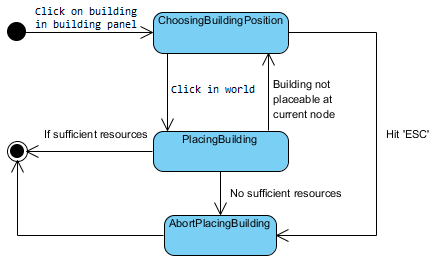
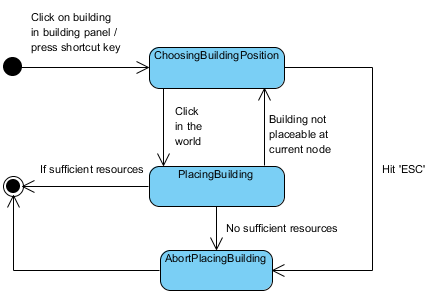
Updated text shortcut keys

Changed region(s): [[0.0, 0.03, 0.9885, 0.9588]]

diff --git a/docs/software_architecture/chapters/adding-buildings.tex b/docs/software_architecture/chapters/adding-buildings.tex
@@ -3,12 +3,12 @@
 As a player you may want to add buildings to the world. In this section we will explain how a player can add buildings and how we have implemented this feature.
 
 \subsection{Controls and feedback}
-Buildings can be spawned via the building panel (see \cref{fig:building-panel}). When the player clicks on the building that he/she wishes to spawn, a slightly transparent texture of the building appears at the mouse position. When the player hovers the mouse over another static entity, the texture gets a red border. This will notify the player that the building cannot be placed at that current mouse position. If the player decides not to place a building after all, the action can be cancelled by pressing the escape key. More on this subject is described in \cref{AbortPlacingBuilding}. When the player is satisfied with the position to place the building on, it can be placed by clicking the left mouse button. 
+Buildings can be spawned via the building panel (see \cref{fig:building-panel}). When the player clicks on the building that he/she wishes to spawn, or presses the key that belongs to the building (displayed in the top left corner of the building in the building panel), a slightly transparent texture of the building appears at the mouse position. When the player hovers the mouse over another static entity, the texture gets a red border. This will notify the player that the building cannot be placed at that current mouse position. If the player decides not to place a building after all, the action can be cancelled by pressing the escape key. More on this subject is described in \cref{AbortPlacingBuilding}. When the player is satisfied with the position to place the building on, it can be placed by clicking the left mouse button. 
 
 \subsection{Building panel}
 The building panel, as displayed in \cref{fig:building-panel}, iterates over the buildings\_with\_textures enum, and for each entry it adds a UnitPanel to the Building Panel. UnitPanels are used for the EntityPanel (see \ref{EntityPanel}) as well as the Building Panel. These UnitPanels render an image, and contain objects of whatever it renders (buildings or entities). Unit panels are highlighted in \cref{fig:unit-panel}.
 
-A mouse handler of which a diagram is shown in \cref{fig:mousehandlerbuildingpanel} takes care of actually starting the process of positioning and placing a building.
+A mouse handler of which a diagram is shown in \cref{fig:mousehandlerbuildingpanel} or the key event handler takes care of actually starting the process of positioning and placing a building.
 
 \subsection{States}
 We are using the state pattern during positioning and placing buildings, because this pattern makes it easy to extend the behaviour of the player or entity, which can be different each state.\\

diff --git a/docs/software_architecture/chapters/spawning-units.tex b/docs/software_architecture/chapters/spawning-units.tex
@@ -16,6 +16,8 @@ In \cref{fig:unit-panel} all unit panels are highlighted. For each unit that can
 
 In order to capture click events, and trigger the unit spawning process, a MouseHandlerEntityPanel is used. When the player clicks on an entity, the mouse handler takes care of spawning the unit and subtracing the resource cost. The entity will only be ordered if the player has enough resources to pay for the unit, as shown below.
 
+Another way to spawn a unit is to press the shortcut key. This shortcut key will is shown in the top left badge of the unit panel.
+
 \begin{lstlisting}
  if (p->resources->check_if_sufficient_resources(spawnable_entity->get_cost())) {
     // tell the building to spawn the selected entity type
